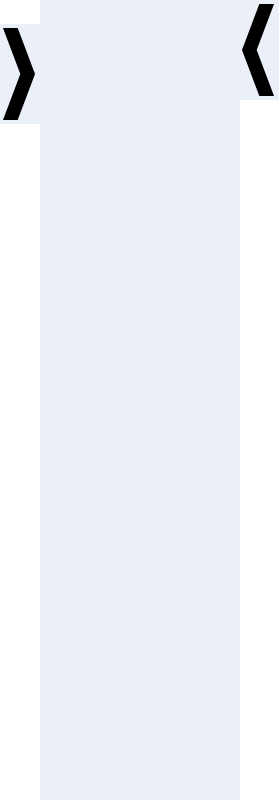
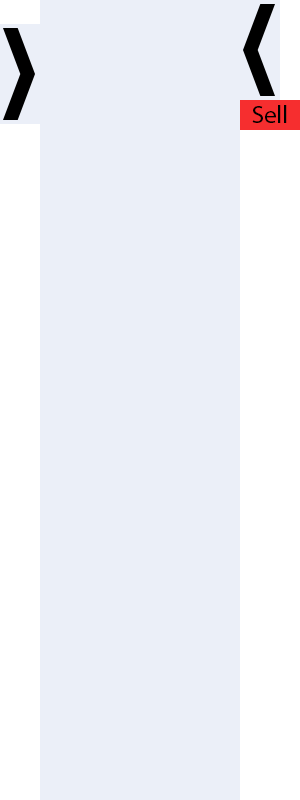
Selling turrets has been added

diff --git a/core/src/com/mygdx/game/entities/shop/Shop.java b/core/src/com/mygdx/game/entities/shop/Shop.java
@@ -5,7 +5,6 @@ import com.badlogic.ashley.core.Entity;
 import com.badlogic.gdx.Gdx;
 import com.badlogic.gdx.graphics.Texture;
 import com.badlogic.gdx.graphics.g2d.*;
-import com.badlogic.gdx.graphics.glutils.ShapeRenderer;
 import com.badlogic.gdx.math.Rectangle;
 import com.mygdx.game.TurretGame;
 import com.mygdx.game.World;
@@ -19,13 +18,17 @@ public class Shop {
     private static final ComponentMapper<TurretComponent> turretM = ComponentMapper.getFor(TurretComponent.class);
 
     public static final BitmapFont font = new BitmapFont(Gdx.files.internal("store_font.fnt"), Gdx.files.internal("store_font.png"), false);
+    public static final BitmapFont sellFont = new BitmapFont(Gdx.files.internal("sell.fnt"), Gdx.files.internal("sell.png"), false);
     public static final Texture shop = new Texture("ShopBG.png");
     public static final TextureRegion closedShop = new TextureRegion(shop, 240, 0, 40, 100);
     public static final TextureRegion openShop = new TextureRegion(shop, 240, 800);
+    public static final TextureRegion sell = new TextureRegion(shop, 240, 100, 60, 30);
 
     private static final Rectangle closeButtonBounds = new Rectangle(TurretGame.WIDTH - 240, TurretGame.HEIGHT - 124, 40, 100);
     private static final Rectangle openButtonBounds = new Rectangle(TurretGame.WIDTH - 40, TurretGame.HEIGHT - 124, 40, 100);
+
     private static final Rectangle targetButtonBounds = new Rectangle(TurretGame.WIDTH - 100 - 27, TurretGame.HEIGHT - 120 - 15, 54, 10);
+    private static final Rectangle sellButtonBounds = new Rectangle(1090, 20, 60, 30);
 
     private static final ArrayList<Page> pages = new ArrayList<>();
     private static int currentPage = 0;
@@ -89,17 +92,20 @@ public class Shop {
             batch.draw(openShop, TurretGame.WIDTH - 240, 0);
             if(target != null) {
                 TurretComponent t = turretM.get(target);
+                renderTurret(batch, t.type, TurretGame.HEIGHT - 90);
                 GlyphLayout layout = getTurretName(t.type);
-                font.draw(batch, layout, TurretGame.WIDTH - 100 - layout.width/2, TurretGame.HEIGHT - 100 - layout.height/2);
+                font.draw(batch, layout, TurretGame.WIDTH - 100 - layout.width/2, TurretGame.HEIGHT - 140 - layout.height/2);
                 GlyphLayout target = targeting[t.targeting];
                 float x = TurretGame.WIDTH - 100 - target.width/2;
-                float y = TurretGame.HEIGHT - 120 - layout.height/2;
+                float y = TurretGame.HEIGHT - 160 - layout.height/2;
                 font.draw(batch, target, x, y);
+                batch.draw(sell, 1090, 20);
+                sellFont.draw(batch, "$" + t.value, 1160, 43);
             } else {
                 for(int i = 0; i < pages.get(currentPage).count; i++) {
                     TurretRoot type = pages.get(currentPage).get(i);
                     if(type == null) throw new UnknownError("How the fuck");
-                    renderTurret(batch, type, TurretGame.WIDTH - 100, TurretGame.HEIGHT - 130 - 170*i);
+                    renderTurret(batch, type, TurretGame.HEIGHT - 130 - 170*i);
                     GlyphLayout name = getTurretName(type);
                     font.draw(batch, name, TurretGame.WIDTH - 100 - name.width/2f, TurretGame.HEIGHT - 170 - 170*i - name.height/2f);
                     GlyphLayout price = new GlyphLayout(font, "$"+type.cost());
@@ -111,15 +117,15 @@ public class Shop {
         batch.end();
     }
 
-    private static void renderTurret(SpriteBatch batch, TurretRoot turret, float x, float y) {
+    private static void renderTurret(SpriteBatch batch, TurretRoot turret, float y) {
         boolean drawing = batch.isDrawing();
         boolean canAfford = World.money >= turret.cost();
         if(!drawing)
             batch.begin();
         if(!canAfford)
             batch.setColor(0.9f, 0, 0, 1f);
-        batch.draw(turret.base(), x - turret.base().getWidth()/2f, y - turret.base().getHeight()/2f);
-        batch.draw(turret.initTex(), x - turret.originX(), y - turret.originY(), turret.originX(), turret.originY(),
+        batch.draw(turret.base(), (float) 1180.0 - turret.base().getWidth()/2f, y - turret.base().getHeight()/2f);
+        batch.draw(turret.initTex(), (float) 1180.0 - turret.originX(), y - turret.originY(), turret.originX(), turret.originY(),
                 turret.initTex().getRegionWidth(), turret.initTex().getRegionHeight(),
                 1.0f, 1.0f, 90f);
         if(!canAfford)
@@ -139,22 +145,26 @@ public class Shop {
                     TurretComponent t = turretM.get(target);
                     if (t.targeting < targeting.length - 1) t.targeting++;
                     else t.targeting = 0;
-                    System.out.println(targeting[t.targeting].width);
+                    return true;
+                }
+                if(sellButtonBounds.contains(x, y)) {
+                    TurretComponent t = turretM.get(target);
+                    World.money += t.value;
+                    world.removeEntity(target);
+                    target = null;
+                    close();
+                    return true;
                 }
             } else {
                 Page page = pages.get(currentPage);
-                if(Page.firstBounds.contains(x, y) && page.count >= 1) {
+                if(page.count >= 1 && Page.firstBounds.contains(x, y))
                     return buyTurret(page.first, x, y);
-                }
-                if(Page.secondBounds.contains(x, y) && page.count >= 2) {
+                if(page.count >= 2 && Page.secondBounds.contains(x, y))
                     return buyTurret(page.second, x, y);
-                }
-                if(Page.thirdBounds.contains(x, y) && page.count >= 3) {
+                if(page.count >= 3 && Page.thirdBounds.contains(x, y))
                     return buyTurret(page.third, x, y);
-                }
-                if(Page.fourthBounds.contains(x, y) && page.count >= 4) {
+                if(page.count >= 4 && Page.fourthBounds.contains(x, y))
                     return buyTurret(page.fourth, x, y);
-                }
             }
         } else {
             if(openButtonBounds.contains(x, y)) {

diff --git a/core/src/com/mygdx/game/GameScreen.java b/core/src/com/mygdx/game/GameScreen.java
@@ -26,6 +26,7 @@ public class GameScreen extends ScreenAdapter {
 
 	private final ComponentMapper<BuyingComponent> buyingM = ComponentMapper.getFor(BuyingComponent.class);
 	private final ComponentMapper<RectBoundsComponent> boundsM = ComponentMapper.getFor(RectBoundsComponent.class);
+	private final ComponentMapper<TurretComponent> turretM = ComponentMapper.getFor(TurretComponent.class);
 
 	private final Family buyingFamily = Family.all(BuyingComponent.class).get();
 	private final Family turretFamily = Family.all(TurretComponent.class, RectBoundsComponent.class).get();
@@ -115,6 +116,9 @@ public class GameScreen extends ScreenAdapter {
 				BuyingComponent buy = buyingM.get(turret);
 				if (buy.canPlace) {
 					turret.remove(BuyingComponent.class);
+					TurretComponent t = turretM.get(turret);
+					t.value = t.type.cost() / 3;
+					Shop.open(turret);
 					return true;
 				}
 				return false;

diff --git a/core/src/com/mygdx/game/World.java b/core/src/com/mygdx/game/World.java
@@ -21,6 +21,10 @@ public class World {
         this.engine = engine;
     }
 
+    public void removeEntity(Entity e) {
+        engine.removeEntity(e);
+    }
+
     public void createTurret(TurretRoot turret, float x, float y) {
         Entity e = engine.createEntity();
 
